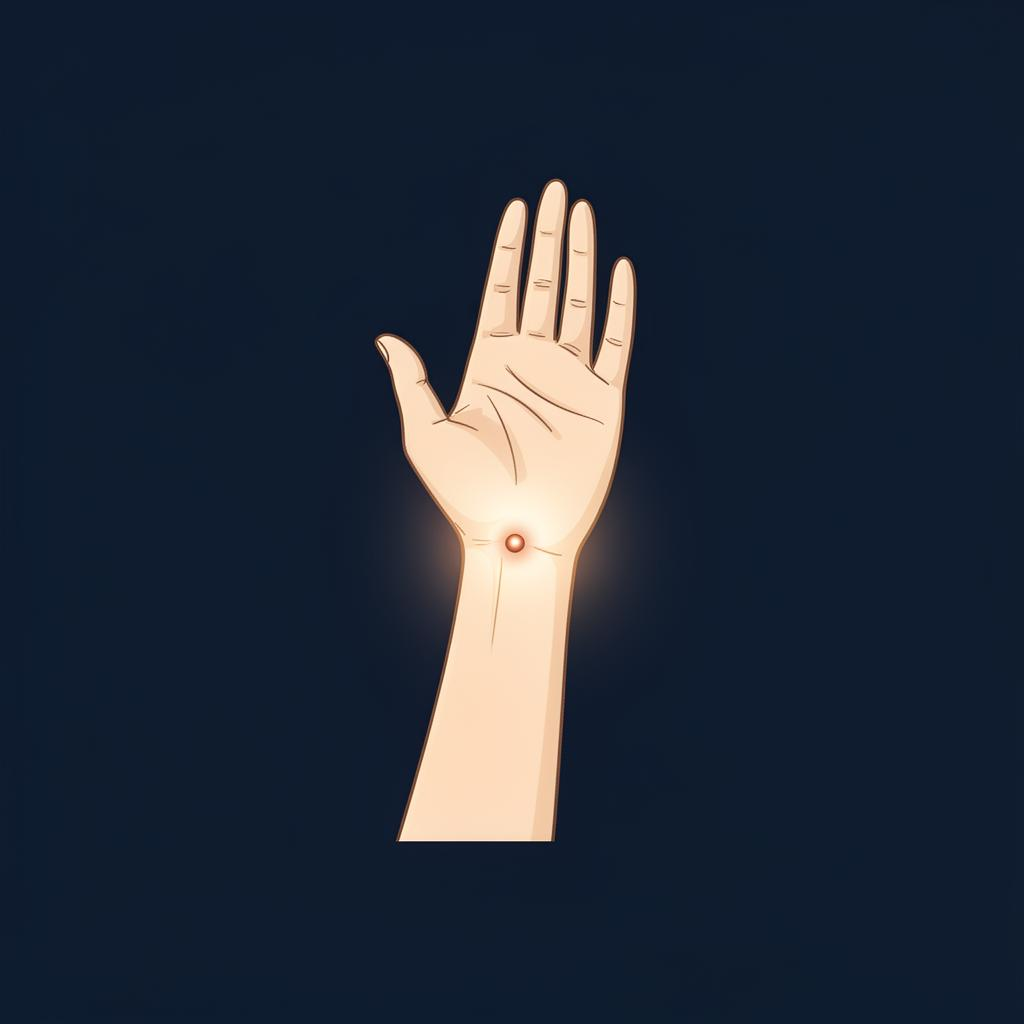
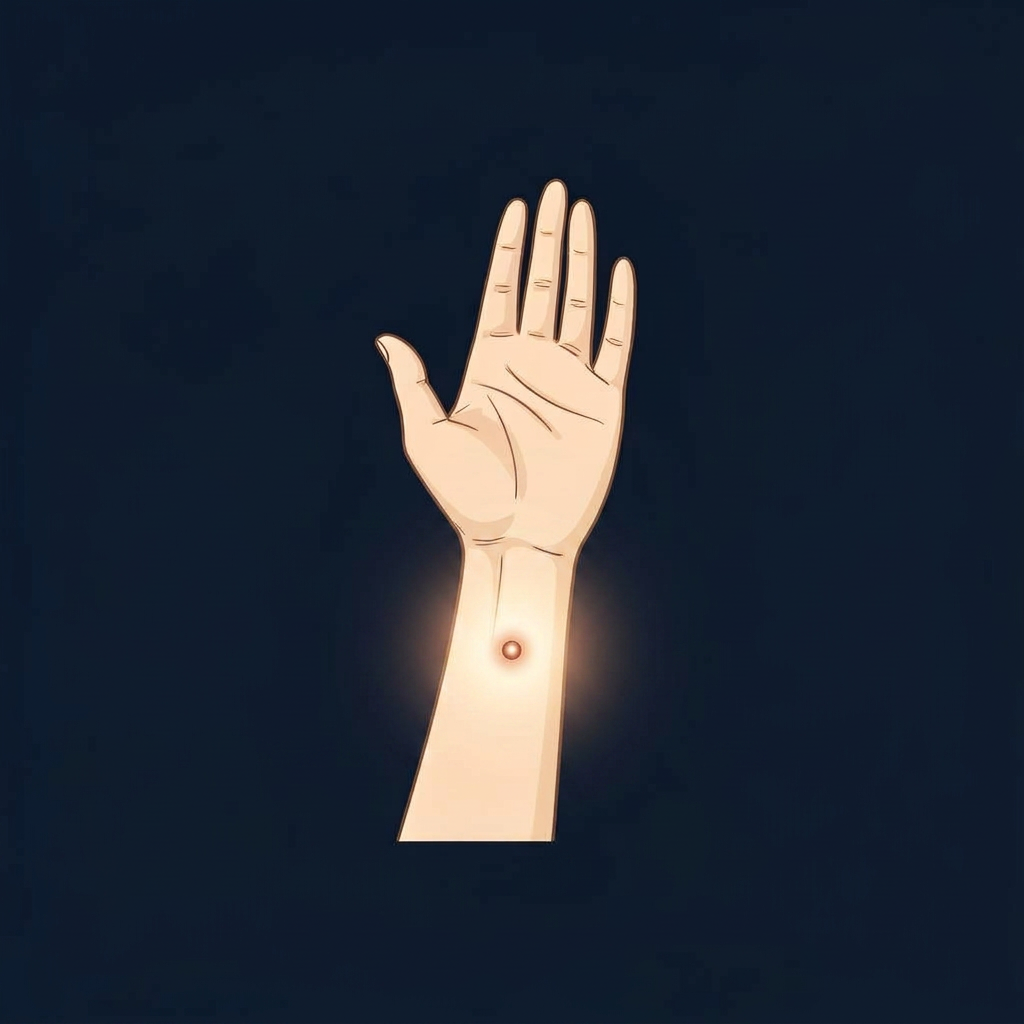
Changes

Changed region(s): [[0.375, 0.4688, 0.625, 0.75]]

diff --git a/.lovable/plan.md b/.lovable/plan.md
@@ -1,0 +1,14 @@
+## Goal
+Move the glowing P6 marker on the calibration screen illustration so it sits higher on the inner forearm — just below the wrist crease rather than mid-forearm.
+
+## Approach
+The hand is a static AI-generated PNG (`src/assets/p6-hand.png`), so the dot can't be repositioned with CSS. Use `imagegen--edit_image` to redraw the same illustration with the rose-gold dot moved up to the correct anatomical P6 location: roughly 2–3 finger-widths below the wrist crease (currently it's drawn much further down the forearm).
+
+## Steps
+1. Run `imagegen--edit_image` on `src/assets/p6-hand.png` with a prompt to relocate the glowing rose-gold dot and its halo higher up — just under the wrist crease, between the two tendons — keeping everything else (hand pose, navy background, style) identical.
+2. Overwrite the existing asset so no code changes are needed; the onboarding screen will pick it up automatically.
+3. Visually QA the regenerated image to confirm the dot is in the right spot and the rest of the illustration is unchanged.
+
+## Notes
+- No code changes to `src/routes/onboarding.tsx` expected.
+- If the edit model drifts the style, fall back to a fresh `imagegen--generate_image` with a more explicit position description.
